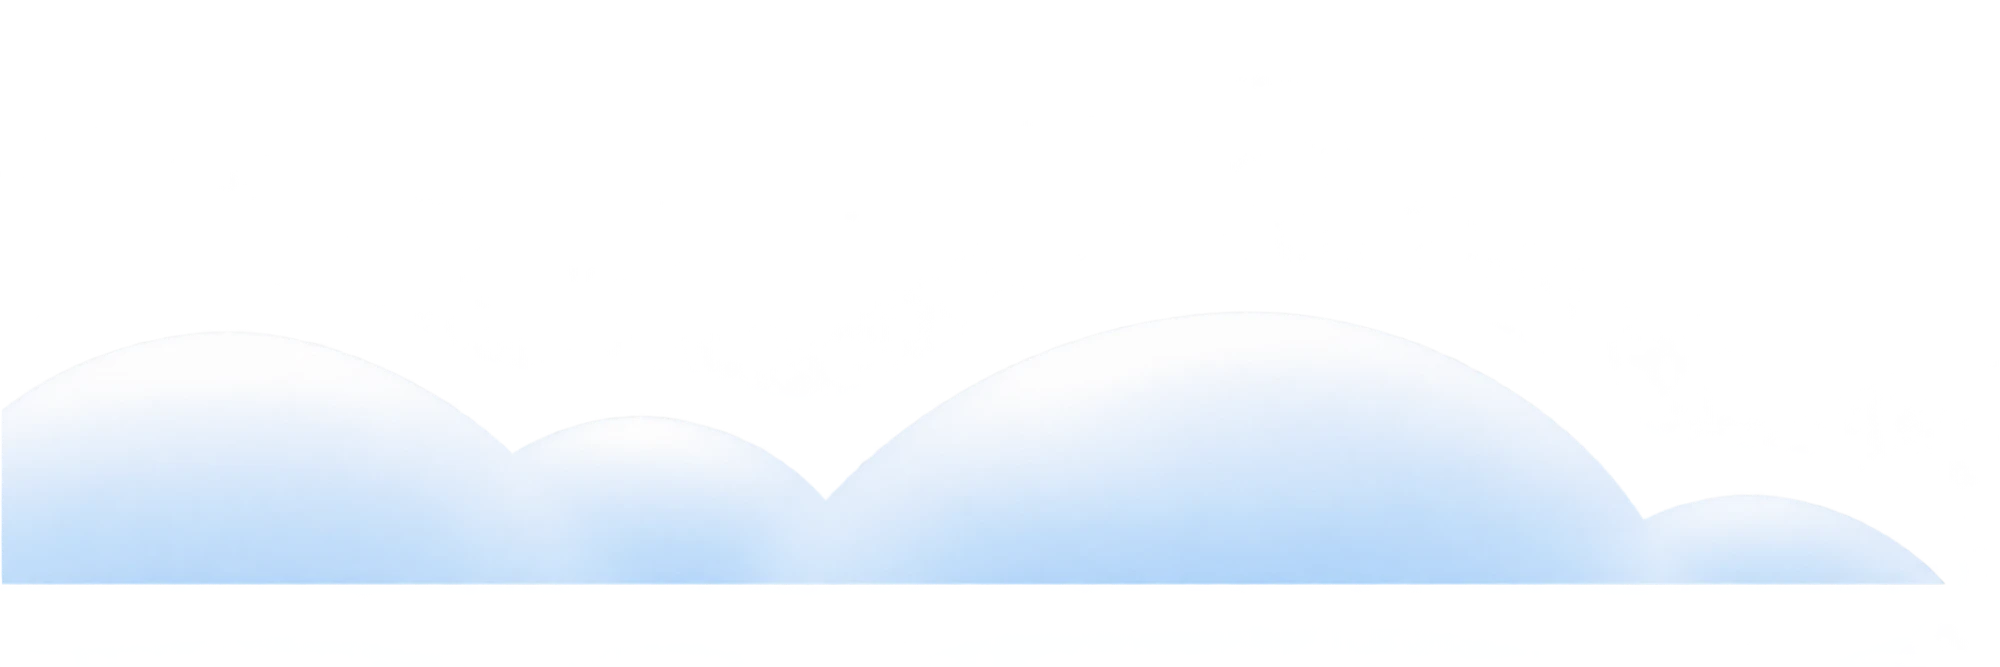
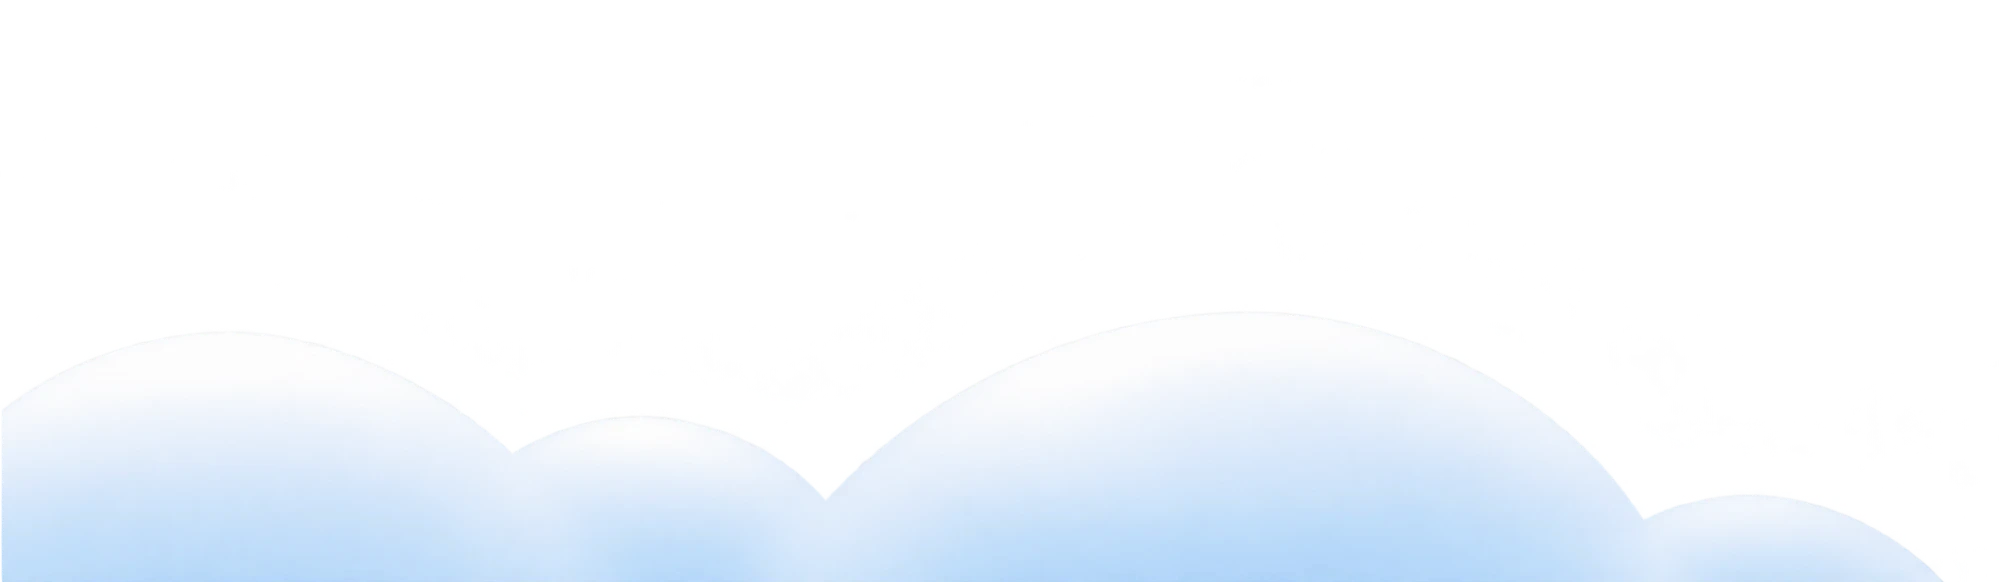
발밑 구름 — 아래 여백을 잘라 낸 그림으로 교체 (구름 아랫변 = 그림 바닥 · P-02 · P-02a · P-03 · P-04)
받은 그림(450px)과 같은 자리를 원본(2000px)에서 잘라 선명도를 지켰다 · top 817 → 818px

Changed region(s): [[0.0, 0.6495, 0.992, 1.0]]

diff --git a/kiosk/src/renderer/styles/p02a.css b/kiosk/src/renderer/styles/p02a.css
@@ -405,11 +405,10 @@
 .p02a-cloud {
   position: absolute;
   left: 0;
-  top: 817px;
+  top: 818px;
   z-index: 1;
   width: 900px;
-  /* 받은 크기(폭 900px · 2026-11-23 지정) — 구름의 아랫변(그림 안 263px)이 화면 바닥(1080)에 딱 붙는다.
-     그 아래는 투명이라 자르지 않아도 된다 */
+  /* 받은 크기(폭 900px · 2026-11-23 지정) — 그림 바닥이 곧 구름의 아랫변이다(2026-11-23 아래 여백을 잘라 낸 그림 — 높이 262px) → 화면 바닥(1080)에 딱 붙는다 */
 }
 
 /* ────────────────────────────────────────────────

diff --git a/kiosk/src/renderer/styles/p02.css b/kiosk/src/renderer/styles/p02.css
@@ -300,11 +300,10 @@
 .p02-cloud {
   position: absolute;
   left: 0;
-  top: 817px;
+  top: 818px;
   z-index: 1;
   width: 900px;
-  /* 받은 크기(폭 900px · 2026-11-23 지정) — 구름의 아랫변(그림 안 263px)이 화면 바닥(1080)에 딱 붙는다.
-     그 아래는 투명이라 자르지 않아도 된다 */
+  /* 받은 크기(폭 900px · 2026-11-23 지정) — 그림 바닥이 곧 구름의 아랫변이다(2026-11-23 아래 여백을 잘라 낸 그림 — 높이 262px) → 화면 바닥(1080)에 딱 붙는다 */
 }
 
 /* ── [시작] — 흰 알약 ([시작하기] · [선택하기]와 같은 꼴) ── */

diff --git a/kiosk/src/renderer/styles/p03.css b/kiosk/src/renderer/styles/p03.css
@@ -319,11 +319,10 @@
 .p03-cloud {
   position: absolute;
   left: 0;
-  top: 817px;
+  top: 818px;
   z-index: 1;
   width: 900px;
-  /* 받은 크기(폭 900px · 2026-11-23 지정) — 구름의 아랫변(그림 안 263px)이 화면 바닥(1080)에 딱 붙는다.
-     그 아래는 투명이라 자르지 않아도 된다 */
+  /* 받은 크기(폭 900px · 2026-11-23 지정) — 그림 바닥이 곧 구름의 아랫변이다(2026-11-23 아래 여백을 잘라 낸 그림 — 높이 262px) → 화면 바닥(1080)에 딱 붙는다 */
 }
 
 @keyframes p03-pop {

diff --git a/kiosk/src/renderer/styles/p04.css b/kiosk/src/renderer/styles/p04.css
@@ -307,10 +307,10 @@
 .p04-cloud {
   position: absolute;
   left: 0;
-  top: 817px;
+  top: 818px;
   z-index: 1;
   width: 900px;
-  /* 받은 크기(폭 900px · 2026-11-23 지정) — 구름의 아랫변(그림 안 263px)이 화면 바닥(1080)에 딱 붙는다 */
+  /* 받은 크기(폭 900px · 2026-11-23 지정) — 그림 바닥이 곧 구름의 아랫변이다(2026-11-23 아래 여백을 잘라 낸 그림 — 높이 262px) → 화면 바닥(1080)에 딱 붙는다 */
 }
 
 @keyframes p04-pop {
